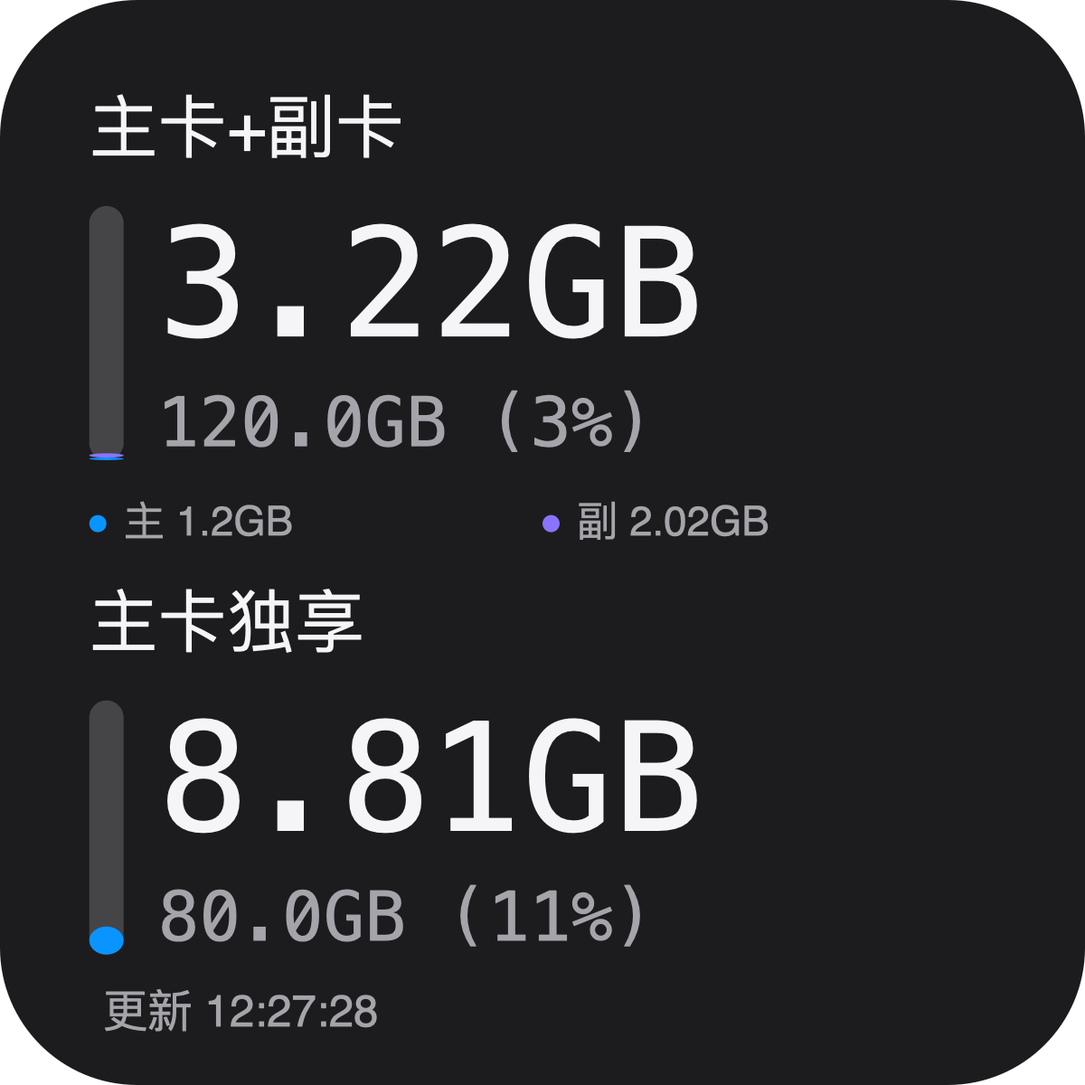
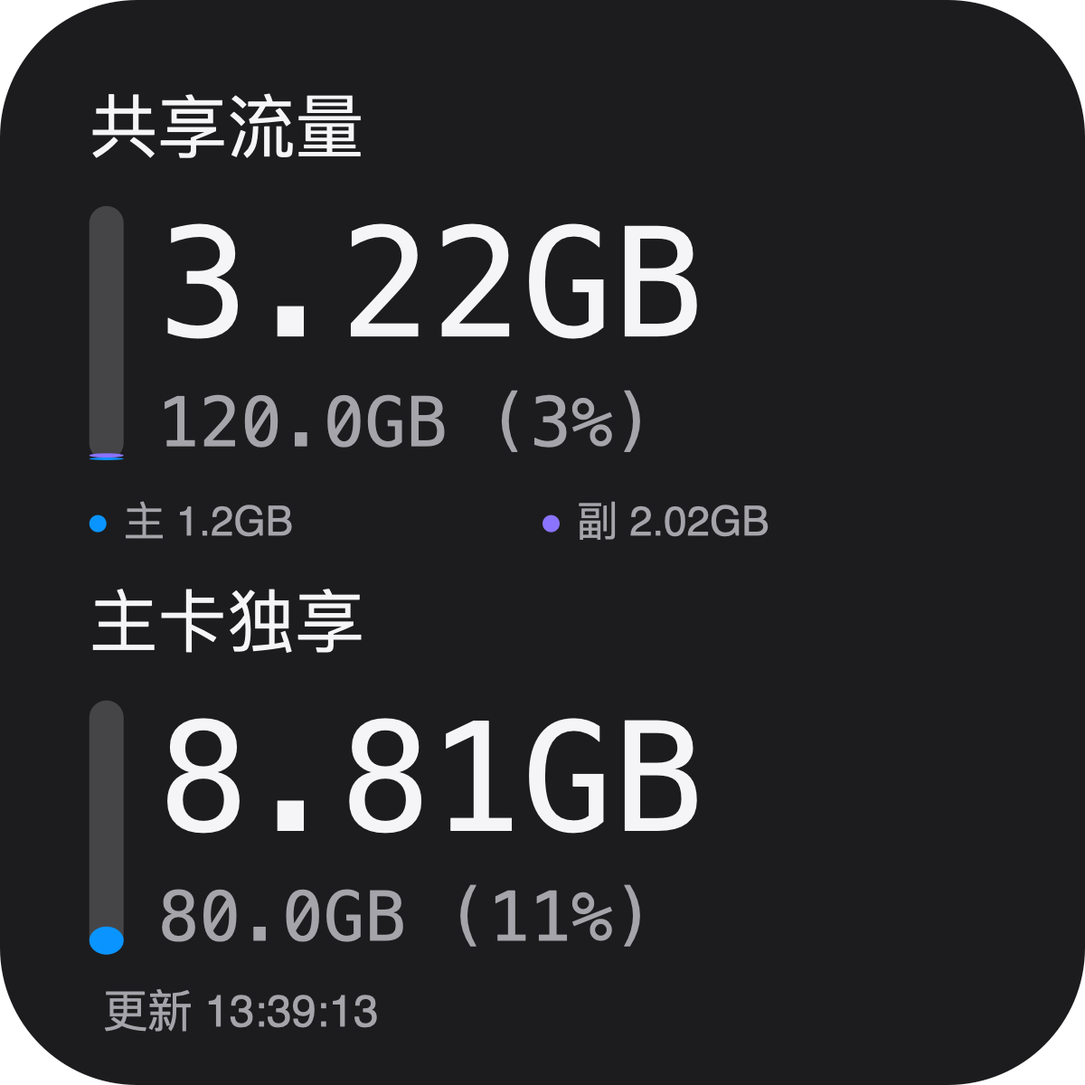
Simplify widget legends and unify redesigned usage statistics views

Changed region(s): [[0.0925, 0.0617, 0.37, 0.1542], [0.2158, 0.8942, 0.3392, 0.9558]]

diff --git a/scriptable/UnicomFlow.js b/scriptable/UnicomFlow.js
@@ -122,7 +122,7 @@ function displayMetrics(data, mode = '统一显示') {
   // 能识别两种套餐时分开显示；不根据 120GB/80GB 数值猜测套餐归属。
   if (shared.length && exclusive.length) {
     const omitted = data.packages.some(p => p.category !== 'ignore' && (p.category !== 'general' || p.shared == null));
-    return { left: { ...sumPackages(shared), composition }, right: sumPackages(exclusive), leftLabel: '主卡+副卡', rightLabel: '主卡独享', omitted };
+    return { left: { ...sumPackages(shared), composition }, right: sumPackages(exclusive), leftLabel: '共享流量', rightLabel: '主卡独享', omitted };
   }
   return { left: data.categories.general, right: data.categories.directed, leftLabel: '通用', rightLabel: '定向', omitted: false };
 }
@@ -506,36 +506,101 @@ function yearlyReport(history, at = Date.now()) {
     crossDay: [], unallocatedMB: 0, lastSuccess: history.data.at };
 }
 
-function monthlyHTML(report, stale = false) {
-  // 数据仅有日期、区间与用量；不把账号号码、原始响应或 Cookie 传入页面。
-  const payload = JSON.stringify(report).replace(/</g, '\\u003c');
-  return `<!doctype html><html lang="zh-CN"><head><meta charset="utf-8"><meta name="viewport" content="width=device-width,initial-scale=1"><style>
-    :root{color-scheme:${UF.bg === 'FFFFFF' ? 'light' : 'dark'}}*{box-sizing:border-box}body{margin:0;padding:24px 18px;background:#${UF.bg};color:#${UF.text};font:15px -apple-system,sans-serif}
-    h1{font-size:25px;margin:0 0 8px}h2{font-size:18px}.muted{color:#${UF.muted};line-height:1.7}strong{font-size:27px;font-weight:500}.panel{padding:18px 0;border-bottom:1px solid #${UF.track}}
-    .scroll{overflow-x:auto;max-width:100%}.chart{display:flex;align-items:stretch;gap:4px;min-width:${report.period === 'months' ? 0 : 620}px;height:150px;padding-top:12px}button{font:inherit;color:inherit;cursor:pointer}.bar{flex:1;min-width:15px;border:0;border-radius:4px;background:transparent;padding:0;display:flex;flex-direction:column;align-items:center;justify-content:flex-end;gap:7px}.bar.selected{outline:1px solid #${UF.blue};outline-offset:2px}.fill{width:100%;border-radius:3px 3px 0 0;background:#${UF.purple};display:flex;flex-direction:column-reverse;overflow:hidden}.segment{display:block;width:100%}.missing{background:#${UF.track}}.future{background:transparent}.day{font-size:10px;color:#${UF.muted}}
-    table{width:100%;min-width:600px;border-collapse:collapse}td{white-space:nowrap}th,td{text-align:left;padding:12px 4px;border-bottom:1px solid #${UF.track};font-size:13px}th{color:#${UF.muted};font-weight:400}.date{border:0;background:none;padding:4px 0;color:#${UF.blue}}#detail{line-height:1.8;white-space:pre-line}.warning{color:#${UF.warning}}details{line-height:1.7}summary{padding:15px 0}
-    </style></head><body><h1 id="title">本月用量</h1><div class="muted">采样估算 · 非运营商日账单${stale ? ' · 当前为缓存' : ''}</div>
-    <section class="panel"><div class="muted">${report.period === 'months' ? '已记录的月用量（含同月跨日区间）' : '已记录的同日区间用量'}</div><strong id="total"></strong><p id="coverage" class="muted"></p><p id="unallocated" class="warning"></p></section>
-    <section class="panel"><div class="muted">点击柱子或${report.period === 'months' ? '月份' : '日期'}查看明细；宽表可左右滑动</div><div class="scroll"><div id="chart" class="chart"></div></div><p class="muted">蓝：主卡；紫：副卡；黄：归属未确认。灰色短柱：无数据；零值为紫色短柱，均以数值为准。</p></section>
-    <section class="panel"><h2 id="selected"></h2><div id="detail"></div></section><div class="scroll"><table><thead><tr><th>${report.period === 'months' ? '月份' : '日期'}</th><th>主卡</th><th>副卡</th><th>未确认</th><th>合计</th><th>记录情况</th></tr></thead><tbody id="rows"></tbody></table></div>
-    <details><summary>统计口径与跨日区间</summary><p class="muted">仅统计两次成功查询在同一天、套餐口径一致且累计计数未回退的差值。未采样不等于零；当天记录也可能只覆盖部分时段。跨日区间单列，不摊到每天；月度汇总可将同月跨日区间计入对应月份；跨月缺口不推算。跨月、套餐变化和计数回退时重新建立基线，已有记录保留。联通记账可能延迟。</p><div id="cross" class="muted"></div></details>
-    <p id="updated" class="muted"></p><script>
-    const report=${payload};
-    const annual=report.period==='months';
-    const byId=id=>document.getElementById(id);
-    const amount=mb=>mb==null?'—':mb>=1024?(mb/1024).toFixed(2)+' GB':mb.toFixed(2)+' MB';
-    const clock=t=>t==null?'无':annual?new Date(t).toLocaleString('zh-CN',{hour12:false}):new Date(t).toLocaleTimeString('zh-CN',{hour12:false});
-    const state=d=>d.future?'未到日期':d.notes.length?'有缺口':d.mb!=null?'采样区间':d.first!=null?'仅基线':'无采样';
-    const select=d=>{byId('selected').textContent=d.key;byId('detail').textContent='区间估算：'+amount(d.mb)+'\\n主卡：'+amount(d.mainMB)+'　副卡：'+amount(d.viceMB)+'\\n归属未确认：'+amount(d.unknownMB)+'\\n有效区间：'+d.intervals+' 段\\n成功采样范围：'+clock(d.first)+' — '+clock(d.last)+'\\n'+(d.notes.join('；')||'仅代表已记录区间，未采样时段不补零');document.querySelectorAll('.bar').forEach(b=>b.classList.toggle('selected',b.dataset.key===d.key));};
-    byId('title').textContent=annual?'近12个月（含本月）':report.month+' 本月用量';byId('total').textContent=amount(report.totalMB);
-    byId('coverage').textContent=(annual?'有用量记录 ':'有同日区间记录 ')+report.days.filter(d=>d.mb!=null).length+(annual?' 个月；无数据月份未补零。':' 天；其余日期未补零。');
-    byId('unallocated').textContent=annual?'同月跨日区间已并入所属月份；跨月缺口未推算。':'跨日未分配：'+amount(report.unallocatedMB)+'（'+report.crossDay.length+' 段，未计入上方合计）';
-    const max=Math.max(1,...report.days.map(d=>d.mb||0));
-    for(const d of report.days){const bar=document.createElement('button');bar.className='bar';bar.dataset.key=d.key;bar.title=d.key+' '+amount(d.mb);bar.setAttribute('aria-label',bar.title);const fill=document.createElement('span');fill.className='fill'+(d.future?' future':d.mb==null?' missing':'');fill.style.height=(d.future?0:d.mb==null?4:Math.max(4,d.mb/max*110))+'px';if(d.mb>0){fill.style.background='transparent';for(const [value,color] of [[d.mainMB,'#${UF.blue}'],[d.viceMB,'#${UF.purple}'],[d.unknownMB,'#${UF.warning}']]){if(value>0){const segment=document.createElement('span');segment.className='segment';segment.style.height=(value/d.mb*100)+'%';segment.style.background=color;fill.append(segment);}}}const label=document.createElement('span');label.className='day';label.textContent=d.day;bar.append(fill,label);bar.onclick=()=>select(d);byId('chart').append(bar);
-    const tr=document.createElement('tr');const date=document.createElement('td');const button=document.createElement('button');button.className='date';button.textContent=annual?d.key:d.key.slice(5);button.onclick=()=>select(d);date.append(button);const main=document.createElement('td');main.textContent=amount(d.mainMB);main.style.color='#${UF.blue}';const vice=document.createElement('td');vice.textContent=amount(d.viceMB);vice.style.color='#${UF.purple}';const unknown=document.createElement('td');unknown.textContent=amount(d.unknownMB);const value=document.createElement('td');value.textContent=amount(d.mb);const status=document.createElement('td');status.textContent=state(d);tr.append(date,main,vice,unknown,value,status);byId('rows').append(tr);}
-    for(const e of report.crossDay){const p=document.createElement('p');p.textContent=new Date(e.from).toLocaleString('zh-CN',{hour12:false})+' → '+new Date(e.at).toLocaleString('zh-CN',{hour12:false})+'：'+amount(e.mb)+'（主 '+amount(e.mainMB)+' / 副 '+amount(e.viceMB)+' / 未确认 '+amount(e.unknownMB)+'）';byId('cross').append(p);}
-    byId('updated').textContent='最后成功查询：'+new Date(report.lastSuccess).toLocaleString('zh-CN',{hour12:false});select(report.days.find(d=>d.key===report.today)||report.days[0]);
-    </script></body></html>`;
+function hourlyReport(history, at = Date.now()) {
+  const date = dayKey(at), hour = new Date(at).getHours();
+  const days = Array.from({ length: 24 }, (_, index) => {
+    const events = (history.events || []).filter(e => dayKey(e.from) === date && dayKey(e.at) === date && new Date(e.at).getHours() === index && e.at <= at);
+    const parts = events.reduce((sum, e) => { sum.mb += e.mb; for (const [key, value] of Object.entries(eventParts(e))) sum[key] += value; return sum; }, { mb: 0, mainMB: 0, viceMB: 0, unknownMB: 0 });
+    const known = events.length > 0 && index <= hour;
+    return { key: `${date} ${String(index).padStart(2, '0')}:00`, day: String(index).padStart(2, '0'), future: index > hour,
+      mb: known ? parts.mb : null, mainMB: known ? parts.mainMB : null, viceMB: known ? parts.viceMB : null, unknownMB: known ? parts.unknownMB : null,
+      intervals: known ? events.length : 0, first: known ? Math.min(...events.map(e => e.from)) : null,
+      last: known ? Math.max(...events.map(e => e.at)) : null,
+      notes: events.some(e => new Date(e.from).getHours() !== index) ? ['跨小时区间计入结束小时，未平均摊分'] : [] };
+  });
+  const saved = history.months && history.months[date.slice(0, 7)];
+  const crossDay = (saved && saved.crossDay || []).filter(e => dayKey(e.from) <= date && dayKey(e.at) >= date);
+  return { period: 'hours', month: date, today: `${date} ${String(hour).padStart(2, '0')}:00`, days,
+    totalMB: days.some(d => d.mb != null) ? days.reduce((sum, d) => sum + (d.mb || 0), 0) : null,
+    crossDay, unallocatedMB: crossDay.reduce((sum, e) => sum + e.mb, 0), lastSuccess: history.data.at };
+}
+
+function statisticsReports(history, at = Date.now()) {
+  return { hours: hourlyReport(history, at), month: monthlyReport(history, at), year: yearlyReport(history, at) };
+}
+
+function statisticsHTML(reports, stale = false, initialPeriod = 'month') {
+  const payload = JSON.stringify(reports).replace(/</g, '\\u003c');
+  const light = parseInt(UF.bg.slice(0, 2), 16) * 0.299 + parseInt(UF.bg.slice(2, 4), 16) * 0.587 + parseInt(UF.bg.slice(4, 6), 16) * 0.114 > 150;
+  const surface = light ? 'FFFFFF' : '242426', page = light ? 'F3F5F9' : '151517';
+  const border = light ? 'E7EAF0' : '343438', soft = light ? 'F6F8FC' : '2D2D31';
+  return `<!doctype html><html lang="zh-CN"><head><meta charset="utf-8"><meta name="viewport" content="width=device-width,initial-scale=1,viewport-fit=cover"><style>
+  :root{color-scheme:${light ? 'light' : 'dark'};--text:#${UF.text};--muted:#${UF.muted};--blue:#${UF.blue};--purple:#${UF.purple};--warning:#${UF.warning};--line:#${border};--surface:#${surface};--soft:#${soft}}
+  *{box-sizing:border-box}body{margin:0;background:#${page};color:var(--text);font:14px -apple-system,BlinkMacSystemFont,sans-serif;-webkit-text-size-adjust:100%}button{font:inherit;color:inherit;-webkit-tap-highlight-color:transparent}button:focus-visible{outline:2px solid var(--blue);outline-offset:2px}[hidden]{display:none!important}
+  .shell{max-width:760px;margin:auto;padding:26px 18px 30px}header{display:flex;align-items:center;justify-content:space-between;margin-bottom:22px}h1{font-size:26px;letter-spacing:-.6px;margin:0 0 6px;font-weight:650}.eyebrow{font-size:12px;color:var(--muted)}.badge{font-size:11px;white-space:nowrap;padding:7px 10px;border-radius:20px;background:var(--soft);color:var(--muted)}.cached{color:var(--warning)}
+  .tabs{display:grid;grid-template-columns:repeat(3,1fr);padding:4px;background:var(--soft);border-radius:14px;gap:4px;margin-bottom:20px}.tab{border:0;background:transparent;padding:10px 4px;border-radius:10px;color:var(--muted);font-size:13px;font-weight:500}.tab.active{background:var(--surface);color:var(--text);box-shadow:0 2px 8px #0000000c}
+  .card{background:var(--surface);border:1px solid var(--line);border-radius:20px;padding:18px;margin-bottom:14px;min-width:0}.hero{padding:22px 20px}.period-label{font-size:13px;color:var(--muted)}.total{margin:10px 0 12px;font-variant-numeric:tabular-nums;letter-spacing:-1.5px;font-size:42px;font-weight:500;line-height:1.1}.total small{font-size:17px;letter-spacing:0;color:var(--muted);font-weight:400;margin-left:7px}.coverage{font-size:12px;color:var(--muted);line-height:1.6}.totals{display:grid;grid-template-columns:1fr 1fr;gap:10px;margin-top:18px}.mini{padding:12px 13px;border-radius:13px;background:var(--soft)}.mini-label{font-size:11px;color:var(--muted);display:flex;align-items:center;gap:6px}.mini strong{display:block;font-size:19px;font-weight:500;font-variant-numeric:tabular-nums;margin-top:6px}.main{color:var(--blue)}.vice{color:var(--purple)}.unconfirmed{font-size:12px;margin-top:12px;color:var(--warning)}
+  h2{font-size:15px;font-weight:600;margin:0}.card-head{display:flex;justify-content:space-between;align-items:center;gap:8px}.hint{font-size:11px;color:var(--muted)}.legend{display:flex;flex-wrap:wrap;gap:14px;font-size:11px;color:var(--muted);margin:15px 0 8px}.legend span{display:inline-flex;align-items:center;gap:5px}.dot{display:inline-block;width:6px;height:6px;border-radius:50%;flex-shrink:0}.blue{background:var(--blue)}.purple{background:var(--purple)}.amber{background:var(--warning)}.gray{background:#${UF.track}}
+  .scroll{overflow-x:auto;max-width:100%;-webkit-overflow-scrolling:touch}.chart{display:flex;align-items:stretch;gap:5px;height:180px;padding:8px 3px 3px;background:repeating-linear-gradient(to top,transparent 0,transparent 41px,var(--line) 41px,var(--line) 42px);background-size:100% 144px;background-repeat:no-repeat}.bar{flex:1;min-width:14px;padding:0 1px;border:0;background:transparent;border-radius:6px;display:flex;align-items:center;justify-content:flex-end;flex-direction:column;gap:9px}.bar.selected{background:#${UF.blue}12;box-shadow:inset 0 0 0 1px #${UF.blue}66}.fill{display:flex;flex-direction:column-reverse;overflow:hidden;width:100%;border-radius:4px 4px 1px 1px;background:var(--purple)}.fill.missing{background:#${UF.track}}.fill.future{background:transparent}.segment{display:block;width:100%;flex-shrink:0}.tick{height:14px;font-size:10px;color:var(--muted);white-space:nowrap}.bar.selected .tick{color:var(--blue)}.chart-foot{margin-top:10px;line-height:1.6;font-size:11px;color:var(--muted)}
+  .selected-heading{display:flex;align-items:center;justify-content:space-between;gap:12px}.selected-value{font-size:21px;font-weight:500;letter-spacing:-.4px}.selected-cards{display:flex;flex-wrap:wrap;gap:14px;margin:13px 0;font-size:13px}.detail{border-top:1px solid var(--line);padding-top:12px;color:var(--muted);font-size:12px;line-height:1.8;white-space:pre-line;overflow-wrap:anywhere}.status-note{margin:10px 0 0;font-size:11px;line-height:1.7;color:var(--muted)}
+  .table-card{padding:18px 0 0;overflow:hidden}.table-card .card-head{padding:0 18px 14px}table{width:100%;min-width:545px;border-collapse:collapse;font-variant-numeric:tabular-nums}th,td{text-align:right;border-top:1px solid var(--line);padding:13px 12px;white-space:nowrap;font-size:12px}th{font-size:11px;font-weight:400;color:var(--muted);background:var(--soft)}th:first-child,td:first-child{text-align:left;position:sticky;left:0;z-index:1;background:var(--surface);padding-left:18px}th:first-child{background:var(--soft)}td:last-child{color:var(--muted);font-size:11px}tr.selected td{background:#${soft}}.date{border:0;padding:3px 0;background:none;color:var(--text);font-size:12px}tr.selected .date{color:var(--blue)}
+  details{color:var(--muted);font-size:12px;line-height:1.8}summary{cursor:pointer;color:var(--text);font-size:13px;font-weight:500}details p{margin:10px 0 0}.cross-event{padding:10px 0;border-top:1px solid var(--line);font-size:12px;line-height:1.7;white-space:pre-line}footer{white-space:pre-line;color:var(--muted);font-size:11px;line-height:1.8;text-align:center;margin-top:20px}.range-note{margin:12px 0 0;color:var(--muted);font-size:11px;line-height:1.7}
+  </style></head><body><main class="shell">
+  <header><div><h1>用量统计</h1><div class="eyebrow">采样记录 · 非运营商账单</div></div><span class="badge${stale ? ' cached' : ''}">${stale ? '缓存数据' : '本地记录'}</span></header>
+  <nav class="tabs" aria-label="统计周期"><button class="tab" id="tab-hours" type="button">小时</button><button class="tab" id="tab-month" type="button">本月</button><button class="tab" id="tab-year" type="button">近12个月</button></nav>
+  <section class="card hero"><div class="period-label" id="period-label"></div><div class="total" id="total"></div><div class="coverage" id="coverage"></div><div id="cross-hint" class="range-note" hidden></div><div class="totals"><div class="mini"><div class="mini-label"><i class="dot blue"></i>主卡</div><strong id="main-total" class="main"></strong></div><div class="mini"><div class="mini-label"><i class="dot purple"></i>副卡</div><strong id="vice-total" class="vice"></strong></div></div><div id="unknown-total" class="unconfirmed" hidden></div></section>
+  <section class="card"><div class="card-head"><h2 id="chart-title"></h2><span id="chart-count" class="hint"></span></div><div class="legend"><span><i class="dot blue"></i>主卡</span><span><i class="dot purple"></i>副卡</span><span id="unknown-legend"><i class="dot amber"></i>未确认</span><span><i class="dot gray"></i>无数据</span></div><div class="scroll"><div id="chart" class="chart"></div></div><div id="chart-foot" class="chart-foot"></div></section>
+  <section class="card"><div class="selected-heading"><h2 id="selected"></h2><span id="selected-total" class="selected-value"></span></div><div class="selected-cards"><span id="selected-main" class="main"></span><span id="selected-vice" class="vice"></span><span id="selected-unknown" class="unconfirmed"></span></div><div id="detail" class="detail"></div><p id="selected-note" class="status-note"></p></section>
+  <section class="card table-card"><div class="card-head"><h2>明细记录</h2><span class="hint">左右滑动查看全部</span></div><div class="scroll"><table><thead><tr><th id="date-heading"></th><th>主卡</th><th>副卡</th><th>未确认</th><th>合计</th><th>记录情况</th></tr></thead><tbody id="rows"></tbody></table></div></section>
+  <section class="card" id="cross-card"><details><summary id="cross-summary"></summary><p>这部分用量无法准确拆到某天或小时，未计入上方合计。</p><div id="cross-events"></div></details></section>
+  <section class="card"><details><summary>统计口径与数据缺口</summary><p id="scope"></p><p>只统计成功查询间可确认的增量。无数据不等于零；短柱只是占位，用量以数值为准。套餐变更、累计计数回退或跨月时重新建立基线，不推算缺失用量。主卡包括共享部分与独享包；归属无法确认的部分单独列出。</p></details></section>
+  <footer id="updated"></footer></main><script>
+  (()=>{
+    const reports=${payload}, initial=${JSON.stringify(initialPeriod)};
+    const el=id=>document.getElementById(id), modes={hours:{label:'时段',title:'今日小时分布',width:500},month:{label:'日期',title:'本月每日分布',width:600},year:{label:'月份',title:'近12个月分布',width:0}};
+    const amount=value=>value==null?'—':value>=1024?(value/1024).toFixed(2)+' GB':value.toFixed(2)+' MB';
+    const totalFor=(report,key)=>report.days.some(d=>d.mb!=null)?report.days.reduce((sum,d)=>sum+(d[key]||0),0):null;
+    const clock=(time,full)=>time==null?'无':full?new Date(time).toLocaleString('zh-CN',{hour12:false}):new Date(time).toLocaleTimeString('zh-CN',{hour12:false});
+    const status=d=>d.future?'未到时间':d.mb==null?(d.first!=null?'仅基线':d.notes.length?'有缺口':'无采样'):d.notes.length?'有缺口':'采样区间';
+    let current='month', report=reports.month;
+    function select(d){
+      el('selected').textContent=d.key;el('selected-total').textContent=amount(d.mb);
+      el('selected-main').textContent='主卡 '+amount(d.mainMB);el('selected-vice').textContent='副卡 '+amount(d.viceMB);
+      el('selected-unknown').hidden=!(d.unknownMB>0);el('selected-unknown').textContent='未确认 '+amount(d.unknownMB);
+      el('detail').textContent=d.first==null?'暂无成功采样记录':'有效区间 '+d.intervals+' 段\\n采样起止 '+clock(d.first,current==='year')+' — '+clock(d.last,current==='year');
+      el('selected-note').textContent=d.future?'该时段尚未到达':d.notes.join('；')||(d.mb==null?'没有记录，未补零':'仅代表已记录区间，不保证覆盖完整时段');
+      Array.from(el('chart').children).forEach(item=>item.classList.toggle('selected',item.dataset.key===d.key));
+      Array.from(el('rows').children).forEach(item=>item.classList.toggle('selected',item.dataset.key===d.key));
+    }
+    function render(key){
+      current=key;report=reports[key];const mode=modes[key];
+      Object.keys(modes).forEach(name=>{el('tab-'+name).classList.toggle('active',name===key);el('tab-'+name).setAttribute('aria-pressed',String(name===key));});
+      el('period-label').textContent=key==='year'?'最近12个月 · 含本月':report.month+(key==='hours'?' · 同日采样区间':' · 同日区间合计');
+      el('total').textContent=amount(report.totalMB);el('main-total').textContent=amount(totalFor(report,'mainMB'));el('vice-total').textContent=amount(totalFor(report,'viceMB'));
+      const unknown=totalFor(report,'unknownMB');el('unknown-total').hidden=!(unknown>0);el('unknown-total').textContent='归属未确认 '+amount(unknown);el('unknown-legend').hidden=!(unknown>0);
+      const recorded=report.days.filter(d=>d.mb!=null).length;
+      el('coverage').textContent='已记录 '+recorded+' / '+report.days.length+' 个'+mode.label+' · '+(key==='year'?'包含同月跨日区间':'跨日区间单独列出');
+      el('chart-title').textContent=mode.title;el('chart-count').textContent=recorded+' 个'+mode.label+'有记录';el('date-heading').textContent=mode.label;
+      el('chart').style.minWidth=mode.width+'px';el('chart').replaceChildren();el('rows').replaceChildren();
+      const max=Math.max(1,...report.days.map(d=>d.mb||0));
+      for(const d of report.days){
+        const button=document.createElement('button');button.type='button';button.className='bar';button.dataset.key=d.key;button.setAttribute('aria-label',d.key+' '+amount(d.mb));
+        const fill=document.createElement('span');fill.className='fill'+(d.future?' future':d.mb==null?' missing':'');fill.style.height=(d.future?0:d.mb==null?4:Math.max(4,d.mb/max*140))+'px';
+        if(d.mb>0){fill.style.background='transparent';for(const [value,color] of [[d.mainMB,'#${UF.blue}'],[d.viceMB,'#${UF.purple}'],[d.unknownMB,'#${UF.warning}']]){if(value>0){const segment=document.createElement('span');segment.className='segment';segment.style.background=color;segment.style.height=(value/d.mb*100)+'%';fill.append(segment);}}}
+        const tick=document.createElement('span');tick.className='tick';tick.textContent=d.day;button.append(fill,tick);button.onclick=()=>select(d);el('chart').append(button);
+        const row=document.createElement('tr');row.dataset.key=d.key;const date=document.createElement('td');const dateButton=document.createElement('button');dateButton.className='date';dateButton.textContent=key==='year'?d.key:key==='hours'?d.day+':00':d.key.slice(5);dateButton.onclick=()=>select(d);date.append(dateButton);row.append(date);
+        for(const [value,className] of [[d.mainMB,'main'],[d.viceMB,'vice'],[d.unknownMB,''],[d.mb,'']]){const cell=document.createElement('td');cell.textContent=amount(value);cell.className=className;row.append(cell);}const state=document.createElement('td');state.textContent=status(d);row.append(state);el('rows').append(row);
+      }
+      el('cross-hint').hidden=key==='year'||!report.crossDay.length;el('cross-hint').textContent='另有跨日待分配 '+amount(report.unallocatedMB)+' · '+report.crossDay.length+' 段，未计入上方合计';
+      el('chart-foot').textContent=key==='year'?'点击月份查看明细；灰色为无数据占位':key==='hours'?'点击时段查看明细；跨小时增量计入结束小时，不平均摊分':'左右滑动查看整月，点击日期查看明细；短柱不代表固定用量';
+      el('cross-card').hidden=key==='year'||!report.crossDay.length;el('cross-summary').textContent='跨日未分配 '+amount(report.unallocatedMB)+' · '+report.crossDay.length+' 段';el('cross-events').replaceChildren();
+      for(const interval of report.crossDay){const item=document.createElement('div');item.className='cross-event';item.textContent=clock(interval.from,true)+' → '+clock(interval.at,true)+'\\n合计 '+amount(interval.mb)+' · 主 '+amount(interval.mainMB)+' / 副 '+amount(interval.viceMB)+' / 未确认 '+amount(interval.unknownMB);el('cross-events').append(item);}
+      el('scope').textContent=key==='year'?'月汇总包含同月跨日区间，但不补算跨月缺口。只保存已有采样记录，无法自动补齐过去12个月账单。':key==='hours'?'小时图来自同日的有效区间，按查询结束小时归集。长时间没有采样时，一根柱可能包含多个小时的用量。':'每日用量仅汇总同日有效区间，无法拆分的跨日区间单列；所以每日合计可能低于月度汇总。';
+      el('updated').textContent='最后成功查询 '+clock(report.lastSuccess,true)+'\\n切换视图使用同一份记录，不额外查询';
+      select(report.days.find(d=>d.key===report.today)||report.days[report.days.length-1]);
+    }
+    Object.keys(modes).forEach(key=>el('tab-'+key).onclick=()=>render(key));render(Object.hasOwn(modes,initial)?initial:'month');
+  })();</script></body></html>`;
 }
 
 function updateHistory(previous, sample) {
@@ -704,11 +769,13 @@ function drawMetric(ctx, metric, label, x, y, width, compact) {
       if (c.main > 0) roundedRect(ctx, x, barY + barH - mainHeight, barW, mainHeight, 2.5, UF.blue);
       if (c.vice > 0) roundedRect(ctx, x, barY + barH - mainHeight - viceHeight, barW, viceHeight, 2.5, UF.purple);
     }
-    const half = width / 2;
-    roundedRect(ctx, x, y + 63, 2.5, 2.5, 1.25, UF.blue);
-    roundedRect(ctx, x + half, y + 63, 2.5, 2.5, 1.25, UF.purple);
-    text(ctx, `主 ${formatMB(c.main)}`, x + 5, y + 60, half - 5, 10, compact ? 6 : 6.5, UF.muted);
-    text(ctx, `副 ${formatMB(c.vice)}`, x + half + 5, y + 60, half - 5, 10, compact ? 6 : 6.5, UF.muted);
+    if (!(c.complete && c.main === 0)) {
+      const half = width / 2;
+      roundedRect(ctx, x, y + 63, 2.5, 2.5, 1.25, UF.blue);
+      roundedRect(ctx, x + half, y + 63, 2.5, 2.5, 1.25, UF.purple);
+      text(ctx, `主 ${formatMB(c.main)}`, x + 5, y + 60, half - 5, 10, compact ? 6 : 6.5, UF.muted);
+      text(ctx, `副 ${formatMB(c.vice)}`, x + half + 5, y + 60, half - 5, 10, compact ? 6 : 6.5, UF.muted);
+    }
   } else if (metric && metric.total > 0) {
     const ratio = Math.min(1, Math.max(0, metric.used / metric.total));
     roundedRect(ctx, x, barY + barH * (1 - ratio), barW, barH * ratio, 2.5, UF.blue);
@@ -735,7 +802,7 @@ function renderImage(result, medium, width, height) {
     const chartX = pad, chartY = 105, chartW = width - 2 * pad, chartH = height - chartY - 30;
     const cell = chartW / 24, max = Math.max(1, ...buckets.map(b => b.mb));
     const currentHour = new Date(Date.now()).getHours(), minimumBar = 1.5;
-    text(ctx, buckets.some(b => b.samples) ? metrics.perMember ? '套餐池区间用量 · 采样小时' : '区间用量 · 蓝主 / 紫副 / 黄未分' : result.history.note,
+    text(ctx, buckets.some(b => b.samples) ? metrics.perMember ? '套餐池区间用量 · 采样小时' : '今日区间用量 · 采样小时' : result.history.note,
       chartX, 90, chartW, 12, 8, UF.muted);
     buckets.forEach((bucket, hour) => {
       const center = chartX + (hour + 0.5) * cell;
@@ -773,9 +840,14 @@ function renderImage(result, medium, width, height) {
   const label = medium ? status ? `${time} · ${status}` : `${result.manualRefresh ? '已刷新' : '更新'} ${time}`
     : compactStatus ? `${time} · ${compactStatus}` : `${result.manualRefresh ? '已刷新' : '更新'} ${time}`;
   // 大小卡片始终显示最后成功查询时间；异常状态保留提示。
-  text(ctx, label, pad + 2, height - (medium ? 18 : 15), width - 2 * pad - 4, 9, 6.5,
+  text(ctx, label, pad + 2, height - (medium ? 18 : 15), width - 2 * pad - (medium ? 104 : 4), 9, 6.5,
     result.stale || data.warnings.length || metrics.omitted || incomplete ? UF.warning : UF.muted);
   if (medium) {
+    const legendY = height - 18, legendX = width - pad - 90;
+    [[UF.blue, '主卡'], [UF.purple, '副卡'], [UF.warning, '未分']].forEach(([color, label], index) => {
+      roundedRect(ctx, legendX + index * 31, legendY + 3, 2.5, 2.5, 1.25, color);
+      text(ctx, label, legendX + index * 31 + 5, legendY, 16, 9, 6.5, UF.muted);
+    });
     // 使用文字颜色绘制图标，点击区域另由透明布局提供。
     text(ctx, '↻', width - 32, 13, 14, 16, 13, UF.muted);
   }
@@ -976,19 +1048,11 @@ function createWidgetClass(DmYY) {
         + '\n\n仅统计接口明确归属这张卡的用量，缺失项显示 --，不代表整张卡的全部用量。');
     }
 
-    async showMonthlyUsage() {
+    async showUsageStatistics() {
       await this.loadResult();
-      if (!this.result) return alertMessage('本月用量', this.failure || '请先成功查询一次套餐');
+      if (!this.result) return alertMessage('用量统计', this.failure || '请先成功查询一次套餐');
       const view = new WebView();
-      await view.loadHTML(monthlyHTML(monthlyReport(this.result.history), this.result.stale));
-      await view.present();
-    }
-
-    async showYearlyUsage() {
-      await this.loadResult();
-      if (!this.result) return alertMessage('近12个月', this.failure || '请先成功查询一次套餐');
-      const view = new WebView();
-      await view.loadHTML(monthlyHTML(yearlyReport(this.result.history), this.result.stale));
+      await view.loadHTML(statisticsHTML(statisticsReports(this.result.history), this.result.stale));
       await view.present();
     }
 
@@ -1059,8 +1123,7 @@ function createWidgetClass(DmYY) {
       this.registerAction({ title: '账户与数据', menu: [
         action('flowAccount', '账户设置', 'person.crop.circle', '#FF9500', () => alertMessage('账户设置',
           '使用 QX 现有联通重写保存的 YaYa_10010.cookie，无需手动填写。\n\nCookie 失效时进入联通 App 首页 → 流量查询，再点“代理缓存”刷新。')),
-        action('flowMonthly', '本月用量', 'chart.bar.xaxis', '#8A73FF', () => this.showMonthlyUsage()),
-        action('flowYearly', '近12个月', 'calendar', '#007AFF', () => this.showYearlyUsage()),
+        action('flowStatistics', '用量统计', 'chart.bar.xaxis', '#8A73FF', () => this.showUsageStatistics()),
         action('flowMembers', '主副卡用量', 'person.2.fill', '#5856D6', () => this.showMembers()),
         action('flowMemberDiagnostics', '成员字段检查', 'doc.text.magnifyingglass', '#8E8E93', () => this.memberDiagnostics()),
         action('flowProxy', '代理缓存', 'shippingbox.fill', '#34C759', () => this.refreshFromQX()),

diff --git a/docs/unicom-flow/README.md b/docs/unicom-flow/README.md
@@ -19,7 +19,7 @@
 
 - 预览组件：小尺寸、中尺寸。
 - 组件配置：脚本更新、显示方式（统一显示／主副卡分开显示）、组件主题（黑色／白色）、数字字体、套餐分类、颜色配置（底色、数字与标题、进度条、历史图）。
-- 账户与数据：本月用量、近12个月、账户设置（说明现有 QX Cookie 来源，无需输入）、主副卡用量、成员字段检查、代理缓存、连接检查。
+- 账户与数据：用量统计（小时／本月／近12个月）、账户设置（说明现有 QX Cookie 来源，无需输入）、主副卡用量、成员字段检查、代理缓存、连接检查。
 - 基础设置：BoxJS 域名、刷新间隔、清除历史、重载组件。
 
 “代理缓存”是直接读取 `@YaYa_10010.cookie` 后刷新套餐，不调用 DmYY 的批量导入方法；不把 Cookie 保存进 DmYY 设置。DmYY 只保存颜色、刷新间隔等界面配置。
@@ -36,7 +36,7 @@
 
 ## 显示规则
 
-“组件配置 → 数字字体”仅保留 SF Mono Regular 和 Menlo Regular，两项均为常规字重，作用于流量大数字、总量和百分比，黑白主题共用选择。默认 SF Mono Regular。旧 Menlo 设置迁移为 Menlo Regular；其他已移除的字体及旧 SF Mono 半粗体／中等字重统一迁移为 SF Mono Regular。Menlo 不可用时回退系统等宽常规字体，不下载外部字体。主副卡说明使用系统常规字体，标题使用系统中等字重，小时刻度保留等宽字体。大数字表示已用，下方表示套餐总量和已用百分比，大小卡片统一使用数字左侧的竖进度条，从底部向上增长。主卡独享等普通套餐的竖条表示已用比例；共享池的整条高度代表套餐总量，底部蓝色段表示主卡已用、其上紫色段表示副卡已用，剩余灰色表示未用流量。例如共享总量 120 GB、主卡已用 1.2 GB、副卡已用 2.02 GB 时，两段合计只占整条约 2.68%。下方标明两张卡各自的共享用量，蓝色为主卡、紫色为副卡；成员缺失或合计不符时保留灰条并提示，不推算缺失用量。左右留白按 158 点设计高度收窄为 13 点，小号顶部为 12 点；共享条的彩色段同样使用圆头，短段按实际高度绘制椭圆圆角，不夸大用量；大小卡片底部均显示精确到秒的最后一次成功查询时间，中号右上角显示刷新图标，小号不显示刷新按钮，保留圆角安全留白。缓存或未识别明细的提示仍保留在安全区域内。不同手机尺寸统一按设计高度缩放布局。整卡使用背景图填满组件，避免固定宽度内容图片产生边缘细线；小时标签、竖线、柱子共用每格中心点对齐。在“组件配置 → 组件主题”选择黑色或白色，默认黑色，不随系统自动变化。两种主题分别保存自定义颜色，切换后文字、刻度、背景和提示颜色一起变化；可在“颜色配置”中调整当前主题。原版本的颜色设置仅迁移到黑色主题，避免白色主题套用旧的黑底配置。不限量套餐不计算百分比；没有返回某一类明细时显示 `--`，不伪装成 0。
+“组件配置 → 数字字体”仅保留 SF Mono Regular 和 Menlo Regular，两项均为常规字重，作用于流量大数字、总量和百分比，黑白主题共用选择。默认 SF Mono Regular。旧 Menlo 设置迁移为 Menlo Regular；其他已移除的字体及旧 SF Mono 半粗体／中等字重统一迁移为 SF Mono Regular。Menlo 不可用时回退系统等宽常规字体，不下载外部字体。主副卡说明使用系统常规字体，标题使用系统中等字重，小时刻度保留等宽字体。大数字表示已用，下方表示套餐总量和已用百分比，大小卡片统一使用数字左侧的竖进度条，从底部向上增长。主卡独享等普通套餐的竖条表示已用比例；共享池的整条高度代表套餐总量，底部蓝色段表示主卡已用、其上紫色段表示副卡已用，剩余灰色表示未用流量。例如共享总量 120 GB、主卡已用 1.2 GB、副卡已用 2.02 GB 时，两段合计只占整条约 2.68%。下方标明两张卡各自的共享用量，蓝色为主卡、紫色为副卡；主卡共享用量确认为 0 且逐卡合计完整时，小号与中号都省略这组图例，数据缺失时仍保留提示；成员缺失或合计不符时保留灰条并提示，不推算缺失用量。左右留白按 158 点设计高度收窄为 13 点，小号顶部为 12 点；共享条的彩色段同样使用圆头，短段按实际高度绘制椭圆圆角，不夸大用量；大小卡片底部均显示精确到秒的最后一次成功查询时间，中号右上角显示刷新图标，小号不显示刷新按钮，保留圆角安全留白。缓存或未识别明细的提示仍保留在安全区域内。不同手机尺寸统一按设计高度缩放布局。整卡使用背景图填满组件，避免固定宽度内容图片产生边缘细线；小时标签、竖线、柱子共用每格中心点对齐。在“组件配置 → 组件主题”选择黑色或白色，默认黑色，不随系统自动变化。两种主题分别保存自定义颜色，切换后文字、刻度、背景和提示颜色一起变化；可在“颜色配置”中调整当前主题。原版本的颜色设置仅迁移到黑色主题，避免白色主题套用旧的黑底配置。不限量套餐不计算百分比；没有返回某一类明细时显示 `--`，不伪装成 0。
 
 脚本调用联通的套餐明细接口 `queryOcsPackageFlowLeftContentRevisedInJune`。其明细中的 `total/use/remain` 默认以 MB 计，明确带单位的数值按单位换算；不从首页汇总值推算通用／定向数据。
 
@@ -54,7 +54,7 @@
 
 这些数值只用于说明和测试，不写死在组件中。组件按接口中的实际总量统计结转，不能再把截图中的上月 60 GB 手动加一次。
 
-同时识别到共享与非共享两组时，小号上下、中号左右显示“主卡+副卡／主卡独享”（分别对应共享通用池／主卡独享通用包）；否则保留“通用／定向”布局。接口 `unshared` 分区或 `unsharedFlowList` 类型优先视为非共享；已知的两项套餐名称也提供识别。不根据 120 GB、80 GB 这两个数值猜测归属。未识别套餐可通过菜单手动指定。
+同时识别到共享与非共享两组时，小号上下、中号左右显示“共享流量／主卡独享”（分别对应共享通用池／主卡独享通用包）；否则保留“通用／定向”布局。接口 `unshared` 分区或 `unsharedFlowList` 类型优先视为非共享；已知的两项套餐名称也提供识别。不根据 120 GB、80 GB 这两个数值猜测归属。未识别套餐可通过菜单手动指定。
 
 如果拆分模式下还有定向或无法确定共享属性的套餐，底部会提示“另有明细 · 点击查看”；这些明细可在“套餐分类”查看，历史图仍统计全部未排除的流量包。
 
@@ -90,9 +90,11 @@
 
 ![主副卡用量示例](preview-members.png)
 
+[主卡共享用量为零时的小号预览](preview-small-zero.png)展示了省略组内图例后的布局。
+
 ## 历史图
 
-中号显示今天 00—23 时的采样区间增量（通用＋定向）。一次查询的增量等于本次累计已用减去上次累计已用，并记在本次查询所在小时。长间隔不会平均分配到每个小时，因此柱高可能代表几个小时的累计变化；这不是联通提供的精确小时用量。运营商记账也可能存在延迟。
+中号图例移到底部，与更新时间同行（主卡／副卡／未分）；上方只显示区间说明。中号显示今天 00—23 时的采样区间增量（通用＋定向）。一次查询的增量等于本次累计已用减去上次累计已用，并记在本次查询所在小时。长间隔不会平均分配到每个小时，因此柱高可能代表几个小时的累计变化；这不是联通提供的精确小时用量。运营商记账也可能存在延迟。
 
 - 首次运行显示“正在积累数据”，没有虚构历史。
 - 有增量的小时用蓝色主卡、紫色副卡堆叠显示，黄色表示归属未确认；成功采样且增量为零显示紫色短柱；过去且无样本的小时显示灰色短柱占位，未来小时留空。占位不计入统计。
@@ -105,34 +107,42 @@
 
 每次预览或组件刷新都会查询；默认建议 30 分钟后刷新，可在“基础设置”中调整为 5—1440 分钟，实际时间由 iOS 调度，无法保证整点或固定间隔执行。手机时区决定日期和小时。数据和历史保存在 Scriptable 本地 `Documents/UnicomFlow/`。
 
-## 本月用量
+## 用量统计
 
-从 Scriptable 运行脚本，在“账户与数据 → 本月用量”查看。桌面图表仍保持今日小时视图，不增加小号内容。
+从 Scriptable 运行脚本，在“账户与数据 → 用量统计”进入统一页面，通过顶部“小时／本月／近12个月”切换。打开页面只查询一次，之后切换周期、点击柱子和表格都使用同一份记录，不额外请求联通。原有历史文件与统计口径不变，不会因界面更新清空记录。
+
+页面使用当前黑白主题的卡片布局，分别展示总览、主副卡汇总、堆叠图、选中记录与明细表。无数据、归属未确认、跨日待分配、缓存状态都有独立提示。明细表首列固定，宽表可横向滑动。桌面图表仍保持今日小时视图，不增加小号内容。
+
+### 小时视图
+
+展示今日 00—23 时的有效采样区间，支持点击小时查看主副卡用量、区间数及采样起止时间；跨小时的区间仍计入结束小时，不平均摊分。过去无数据的小时显示灰色占位，真实零增量显示紫色短柱；未来小时留空。跨日区间单列，不进入小时合计。
+
+### 本月视图
 
 页面提供整月每日堆叠柱状图和日期列表；明细表直接列出主卡、副卡、未确认、合计及记录情况，可横向滑动查看全部列。可点击日期或柱子查看有效区间数、当天最早／最晚成功采样时间和缺口说明；窄屏可左右滑动柱状图。合计统计所有未排除套餐的同日区间增量，主卡蓝色、副卡紫色堆叠显示；主卡包含共享部分和用户确认的独享包，未知归属为黄色，也不是账单中的月累计值。当天采样范围不代表中间所有时刻都有采样。逐卡数据要求区间两端的套餐成员归属明确、合计与套餐池一致，且各卡计数未回退；缺失或冲突只保留为黄色未确认用量，不用共享池减出缺失卡片。
 
 - **采样估算**：仅将同一天内、套餐口径一致且计数未回退的两次查询差值归入当天；没有记录的日期数值显示“—”，不会填零；过去日期显示灰色短柱占位，已采样的零值显示紫色短柱，未来日期不画柱。采样范围内增量为零的有效区间才显示零。
 - **跨日区间**：能确认增量但不能拆分到各天时，单列“跨日未分配”，不纳入每日柱或同日合计，也不平均摊分。详情中可查看起止时间及主副卡、未确认部分。
 - **首次与缺口**：首次查询只建立基线，之前的用量不能恢复；跨月、套餐变化或计数回退会标记缺口，之后继续累加可确认的新区间，不抹掉本月已有日记录。
-- **旧历史清空**：按用户要求，本次切换逐卡统计后不导入旧总量历史。首次成功查询覆盖旧历史文件并建立新基线，不保留备份；下一次有效查询才开始累积。旧版缓存也不再用于显示旧统计。后续运行保留新历史，不会每次清空。主题、字体和 QX Cookie 不受影响。
+- **旧历史清空**：按用户要求，切换逐卡统计格式时不导入旧总量历史；仅针对尚未切换的旧格式，当前界面更新不会清空已有逐卡记录。首次成功查询覆盖旧历史文件并建立新基线，不保留备份；下一次有效查询才开始累积。旧版缓存也不再用于显示旧统计。后续运行保留新历史，不会每次清空。主题、字体和 QX Cookie 不受影响。
 - **保存方式**：同一份本地 `Documents/UnicomFlow/history.json` 增加 `months` 日聚合（最近12个月，含本月），小时 `events` 仍只保留七天。月度不逐条保存日内请求，避免数据随刷新次数持续膨胀。换账号／Cookie 会隔离历史；分类变更或“清除历史”会清空月度记录。
 - **查询失败**：仍可查看缓存，并显示最后成功时间；没有任何成功缓存时提示先查询。iOS 调度和运营商记账延迟都会影响覆盖范围，因此页面始终标为“非运营商日账单”。
 
-[月度页面手机宽度预览](preview-monthly.png)使用模拟数据，展示主副卡双色堆叠和跨日缺口。
+[本月视图](preview-monthly.png)、[白色主题](preview-statistics-light.png)和[小时视图](preview-hourly.png)均使用模拟数据，展示同一页面的周期切换、主副卡双色堆叠和数据缺口。
 
-本地验证覆盖日聚合、真实零值／缺失值、跨日未分配、跨月保留与裁剪、闰年、乱序／重复采样、套餐变化、计数回退、账号隔离、旧历史清空、离线缓存与日期交互。页面用模拟数据做手机宽度排版检查；实际接口与 iOS WebView 仍需手机验证。
+本地验证覆盖日聚合、真实零值／缺失值、跨日未分配、跨月保留与裁剪、闰年、乱序／重复采样、套餐变化、计数回退、账号隔离、旧历史清空、离线缓存与日期交互。统一页用模拟数据做手机宽度排版及同页切换检查；实际接口与 iOS WebView 仍需手机验证。
 
-## 近12个月
+### 近12个月视图
 
-“账户与数据 → 近12个月”按自然月展示最近12个月，**包含本月**。采用主卡蓝色、副卡紫色的堆叠柱状图，归属不明的部分为黄色；同一张图可比较每月总量和主副卡构成。点击月份查看区间数与采样范围，表格同时列出主卡、副卡、未确认和合计。
+统一页面顶部的“近12个月”按自然月展示最近12个月，**包含本月**。采用主卡蓝色、副卡紫色的堆叠柱状图，归属不明的部分为黄色；同一张图可比较每月总量和主副卡构成。点击月份查看区间数与采样范围，表格同时列出主卡、副卡、未确认和合计。
 
 月用量来自本地有效区间累计，不会调用详单接口补取过去的账单。未积累的月份显示“—”及灰色占位短柱；真实零值才显示零。本月仍在积累，历史月份也不保证采样完整。
 
-同月跨日区间虽然无法分到某一天，但可以确定属于该月，因此纳入月汇总，且只计一次。这使月汇总可能大于“本月用量”页上方的同日区间合计；后者把跨日区间单列。跨月、计数回退及套餐变化导致的缺口不会插值补全。
+同月跨日区间虽然无法分到某一天，但可以确定属于该月，因此纳入月汇总，且只计一次。这使月汇总可能大于“本月”视图上方的同日区间合计；后者把跨日区间单列。跨月、计数回退及套餐变化导致的缺口不会插值补全。
 
-本次仅将日聚合保留范围扩展到最近12个月，保留现有逐卡新记录，不再执行一次性旧格式重置。换账号、手动修改分类或清除历史仍会按原规则清空相应统计。
+逐卡记录按最近12个月保存；界面更新保留现有逐卡记录，不会重复清空历史。换账号、手动修改分类或清除历史仍会按原规则清空相应统计。
 
-[近12个月页面预览](preview-yearly.png)使用模拟数据，仅一个月份有采样记录。
+[近12个月视图预览](preview-yearly.png)使用模拟数据，仅一个月份有采样记录。
 
 ## 查询失败
 
